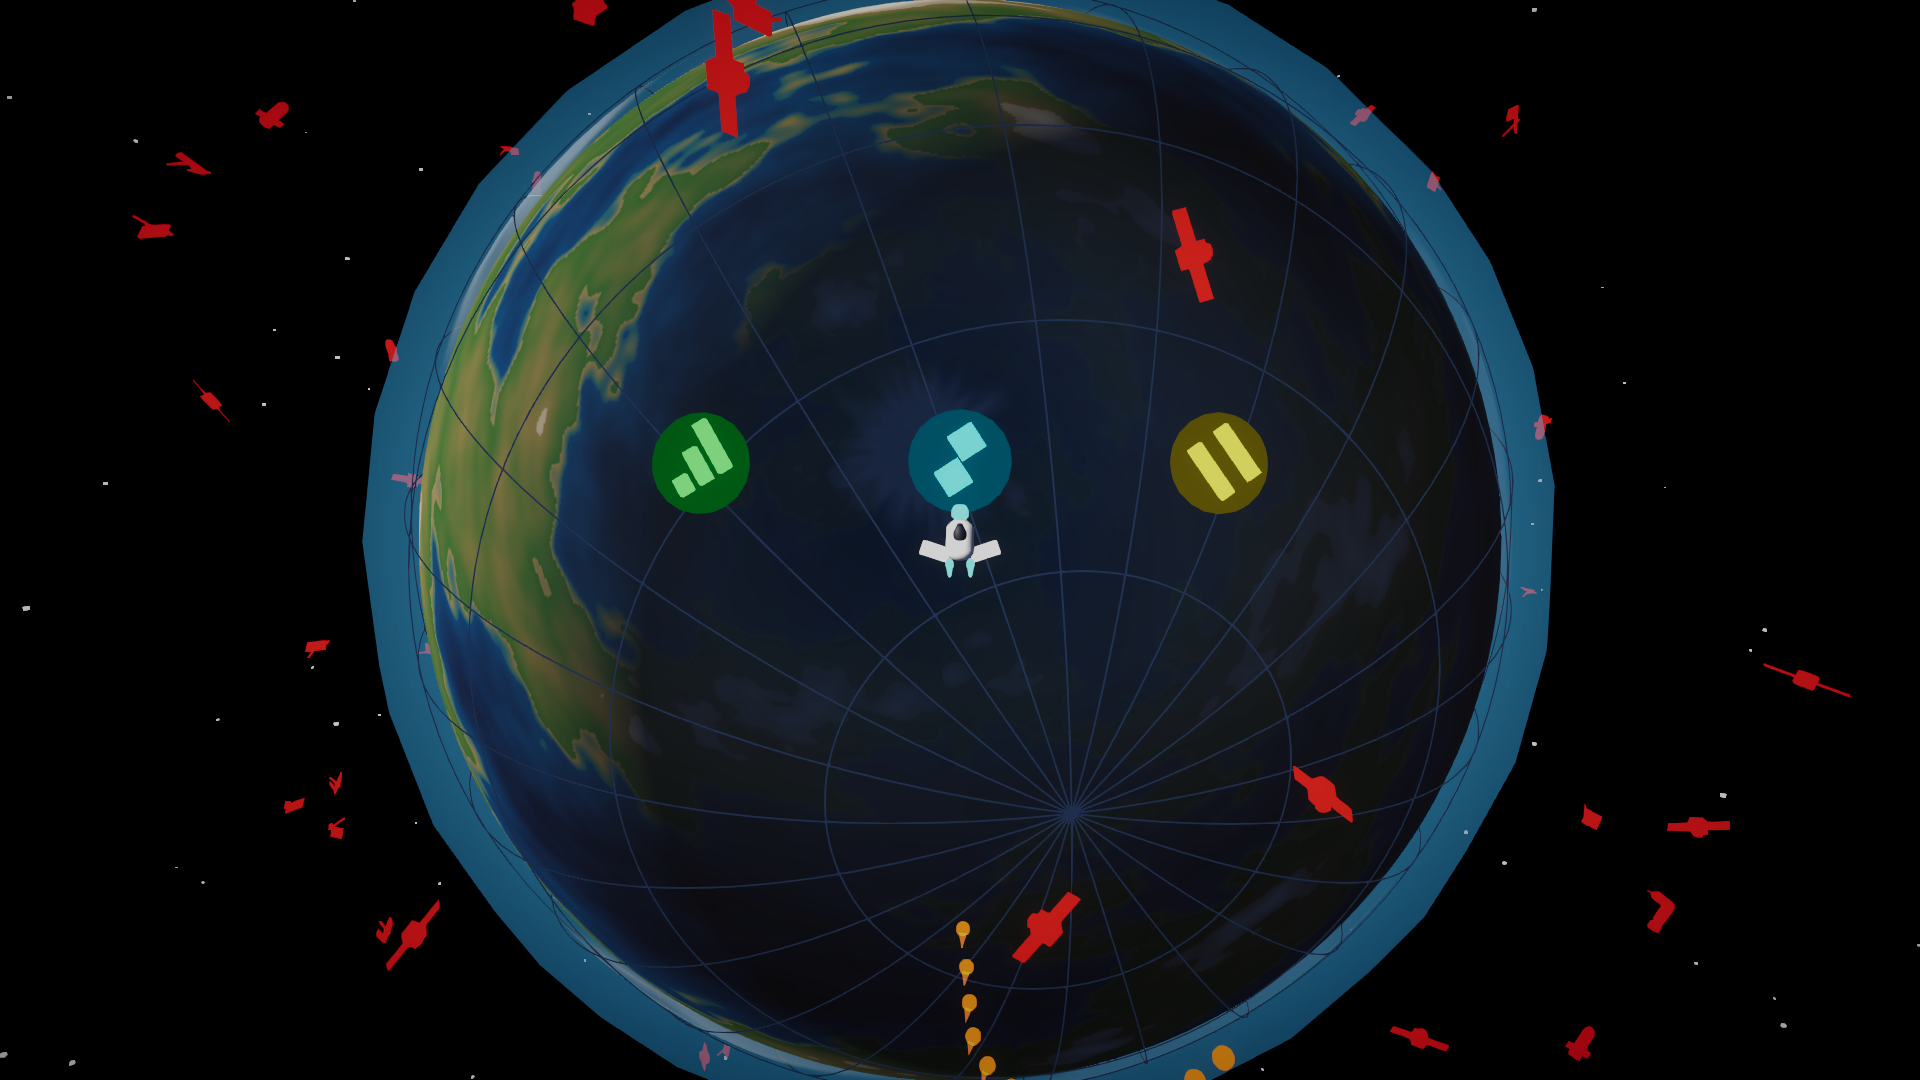
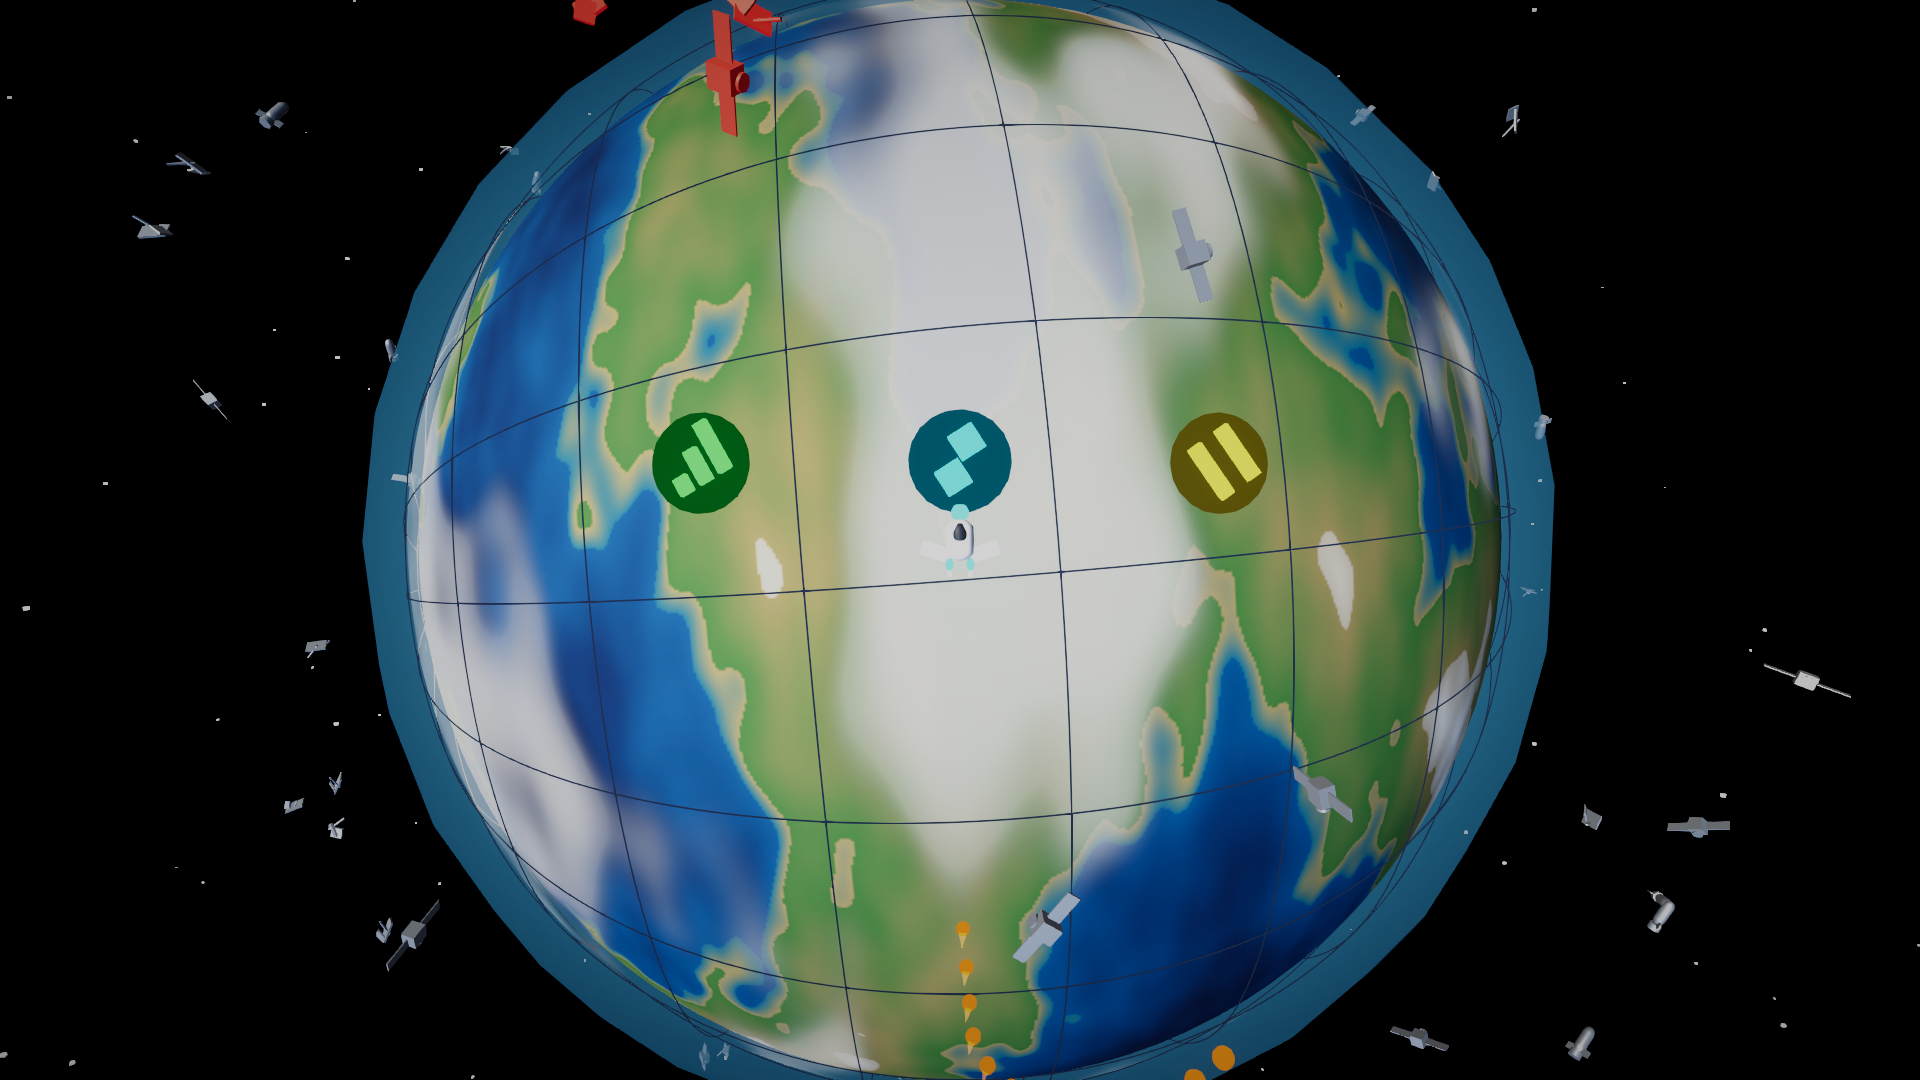
fix: planet sphere wound outward — the near surface renders instead of the far hemisphere's inner wall
Sphere() triangles were counter-clockwise from outside, so back-face culling removed the
near surface on every platform and the game showed a mirrored, back-lit map. Also: pole
UVs at sliver centres, 2048x1024 map with smaller ice caps, planet tilted 90 degrees so
the start is on the equator, transparent Lit anchor so the WebGL build keeps the cloud
shell's transparent variant (it rendered as an opaque white ball), texture debug switches,
refreshed screenshots.

diff --git a/My project/Assets/Scripts/Orbit/OrbitArt.cs b/My project/Assets/Scripts/Orbit/OrbitArt.cs
@@ -11,6 +11,7 @@ public partial class OrbitSnake
     Material planetMat, hullMat, segMat, segMatAlt, junkNeutral, junkCatch, junkStrike, wreckMat, fallMat, glowMat, exhaustMat, sparkMat, gridMat, starMat;
     // Layer 3 in TagManager is named Planet: the planet and clouds sit on it so the camera headlight can leave them alone.
     const int PlanetLayer=3;
+    static readonly Quaternion PlanetTilt=Quaternion.Euler(90,0,0);
     Vector3 camPos, camUp; UniversalAdditionalCameraData camData;
     ParticleSystem sparks; Transform cloudLayer;
     public Vector3 sunDir=new Vector3(-.55f,.6f,-.58f).normalized;
@@ -31,20 +32,25 @@ public partial class OrbitSnake
         fallMat=Mat(new Color(1.5f,.62f,.12f),true); glowMat=Mat(new Color(.45f,1.15f,1.5f),true); exhaustMat=Additive(new Color(.35f,.9f,1.3f),.9f); sparkMat=Additive(Color.white,1);
         gridMat=Mat(new Color(.26f,.32f,.44f),true); starMat=Additive(new Color(.75f,.8f,.95f),1);
         // Planet: a smooth lat-long sphere so the limb is round from 275 u up, lit by the sun so it has a terminator.
-        var planet=new GameObject("Planet"); planet.transform.SetParent(world,false); planet.layer=PlanetLayer;
+        // The map is tilted 90 degrees so the ship's start (world up) sits over the equator, not on a pole and its ice cap.
+        var planet=new GameObject("Planet"); planet.transform.SetParent(world,false); planet.layer=PlanetLayer; planet.transform.rotation=PlanetTilt;
         planet.AddComponent<MeshFilter>().sharedMesh=Sphere(PlanetRadius,128,64); planet.AddComponent<MeshRenderer>().sharedMaterial=planetMat;
         // Cloud layer: the same map's cloud channel on a slightly larger sphere, drifting slowly so the surface reads as alive.
         // Matte clouds: with the default metallic/smoothness the cloud shell's specular bloomed into a white starburst on
         // the ocean (the sun's glint on a sphere 2.5 u above the water), which together with the pole knot read as inside-out.
-        var cloudMat=Mat(Color.white,false); cloudMat.SetFloat("_Metallic",0); cloudMat.SetFloat("_Smoothness",0); cloudMat.SetTexture("_BaseMap",CloudTexture()); cloudMat.SetFloat("_Surface",1); cloudMat.SetFloat("_Blend",0); cloudMat.SetOverrideTag("RenderType","Transparent"); cloudMat.renderQueue=3000; cloudMat.SetInt("_SrcBlend",(int)BlendMode.SrcAlpha); cloudMat.SetInt("_DstBlend",(int)BlendMode.OneMinusSrcAlpha); cloudMat.SetInt("_ZWrite",0); cloudMat.EnableKeyword("_SURFACE_TYPE_TRANSPARENT"); cloudMat.EnableKeyword("_ALPHAPREMULTIPLY_ON");
-        var clouds=new GameObject("Clouds"); clouds.transform.SetParent(world,false); clouds.layer=PlanetLayer; clouds.AddComponent<MeshFilter>().sharedMesh=Sphere(PlanetRadius+2.5f,96,48); clouds.AddComponent<MeshRenderer>().sharedMaterial=cloudMat; cloudLayer=clouds.transform;
+        // Built from the transparent Lit anchor when it exists (RiftBuild.EnsureShaderAssets), so a player build keeps the
+        // transparent variant; the keyword setup below is repeated for the Editor, where no anchor is needed.
+        var cloudAnchor=Resources.Load<Material>("RiftShaders/UniversalRenderPipeline_Lit_Transparent");
+        var cloudMat=cloudAnchor?new Material(cloudAnchor):Mat(Color.white,false); if(cloudAnchor)owned.Add(cloudMat);
+        cloudMat.SetColor("_BaseColor",Color.white); cloudMat.color=Color.white; cloudMat.SetFloat("_Metallic",0); cloudMat.SetFloat("_Smoothness",0); cloudMat.SetTexture("_BaseMap",CloudTexture()); cloudMat.SetFloat("_Surface",1); cloudMat.SetFloat("_Blend",0); cloudMat.SetOverrideTag("RenderType","Transparent"); cloudMat.renderQueue=3000; cloudMat.SetInt("_SrcBlend",(int)BlendMode.SrcAlpha); cloudMat.SetInt("_DstBlend",(int)BlendMode.OneMinusSrcAlpha); cloudMat.SetInt("_ZWrite",0); cloudMat.EnableKeyword("_SURFACE_TYPE_TRANSPARENT"); cloudMat.EnableKeyword("_ALPHAPREMULTIPLY_ON");
+        var clouds=new GameObject("Clouds"); clouds.transform.SetParent(world,false); clouds.layer=PlanetLayer; clouds.transform.rotation=PlanetTilt; clouds.AddComponent<MeshFilter>().sharedMesh=Sphere(PlanetRadius+2.5f,96,48); clouds.AddComponent<MeshRenderer>().sharedMaterial=cloudMat; cloudLayer=clouds.transform;
         // Grid every 15 degrees, faint: from straight above it is what shows speed over an ocean. Meridians are arcs that
         // stop at ±75° like a globe's, so they never bunch into a knot at the poles (the knot read as a hole in the sphere).
         // Grid lines cast no shadows: the sun has none (below), and nothing else should shade the surface either.
         for(int i=0;i<35;i++){ var ring=new GameObject("Grid").AddComponent<LineRenderer>(); ring.transform.SetParent(world,false); ring.useWorldSpace=true; ring.positionCount=128; ring.widthMultiplier=.3f; ring.sharedMaterial=gridMat; ring.shadowCastingMode=UnityEngine.Rendering.ShadowCastingMode.Off; ring.receiveShadows=false;
             bool lon=i<24; ring.loop=!lon; float R=PlanetRadius+3.2f;
-            if(lon){ var q=Quaternion.AngleAxis(i*15,Vector3.up); for(int k=0;k<128;k++){ float a=Mathf.Lerp(-75,75,k/127f)*Mathf.Deg2Rad; ring.SetPosition(k,q*new Vector3(Mathf.Cos(a)*R,Mathf.Sin(a)*R,0)); } }
-            else { float lat=(i-24)*15-75; float r=Mathf.Cos(lat*Mathf.Deg2Rad)*R, y=Mathf.Sin(lat*Mathf.Deg2Rad)*R; for(int k=0;k<128;k++){ float a=k*Mathf.PI*2/128; ring.SetPosition(k,new Vector3(Mathf.Cos(a)*r,y,Mathf.Sin(a)*r)); } } }
+            if(lon){ var q=PlanetTilt*Quaternion.AngleAxis(i*15,Vector3.up); for(int k=0;k<128;k++){ float a=Mathf.Lerp(-75,75,k/127f)*Mathf.Deg2Rad; ring.SetPosition(k,q*new Vector3(Mathf.Cos(a)*R,Mathf.Sin(a)*R,0)); } }
+            else { float lat=(i-24)*15-75; float r=Mathf.Cos(lat*Mathf.Deg2Rad)*R, y=Mathf.Sin(lat*Mathf.Deg2Rad)*R; for(int k=0;k<128;k++){ float a=k*Mathf.PI*2/128; ring.SetPosition(k,PlanetTilt*new Vector3(Mathf.Cos(a)*r,y,Mathf.Sin(a)*r)); } } }
         // Atmosphere limb: RIFT's shader, re-centred on the origin. Cull Front, so it is seen from inside as a halo on the disc.
         var atmoShader=Shader.Find("Rift/Atmosphere");
         if(atmoShader){ var atmo=new Material(atmoShader); owned.Add(atmo); atmo.SetVector("_PlanetCenter",Vector3.zero); atmo.SetFloat("_Radius",PlanetRadius); Shape("Atmosphere",world,PrimitiveType.Sphere,Vector3.zero,Vector3.one*(PlanetRadius+12)*2,atmo); }
@@ -76,31 +82,36 @@ public partial class OrbitSnake
     // material is lit). 1024x512, generated once.
     Texture2D PlanetTexture()
     {
-        // No mip chain: at the poles the lat-long sphere's sliver triangles sweep u from 0 to 1 in a few pixels, the GPU
-        // picks the 1x1 mip (the map's average, dark blue) and the pole renders as a dark starburst. The camera sits 85 u
-        // over a 160 u sphere, so the map is magnified, never minified, and mips buy nothing.
-        var t=new Texture2D(1024,512,TextureFormat.RGB24,false); t.wrapMode=TextureWrapMode.Repeat; var px=new Color[1024*512];
-        for(int y=0;y<512;y++)for(int x=0;x<1024;x++)
+        // 2048x1024: from 115 u above the surface a texel is half a unit, about 3 px on screen. Noise is sampled in the old
+        // 1024x512 texel space so the continents keep their size. Mips stay on for the limb; the poles are handled by the mesh UVs.
+        int W=debug.Contains("tex1024")?1024:2048,H=W/2; var t=new Texture2D(W,H,debug.Contains("rgba")?TextureFormat.RGBA32:TextureFormat.RGB24,!debug.Contains("nomip")); t.wrapMode=TextureWrapMode.Repeat; t.anisoLevel=debug.Contains("noaniso")?1:8; var px=new Color[W*H];
+        for(int y=0;y<H;y++)for(int x=0;x<W;x++)
         {
-            float lat=Mathf.Abs(y/512f-.5f)*2; float n=Mathf.PerlinNoise(x*.006f+7,y*.012f+3)+.4f*Mathf.PerlinNoise(x*.02f,y*.04f)+.15f*Mathf.PerlinNoise(x*.06f,y*.12f);
+            float sx=x*1024f/W, sy=y*512f/H;
+            float lat=Mathf.Abs((float)y/H-.5f)*2; float n=Mathf.PerlinNoise(sx*.006f+7,sy*.012f+3)+.4f*Mathf.PerlinNoise(sx*.02f,sy*.04f)+.15f*Mathf.PerlinNoise(sx*.06f,sy*.12f);
             Color c=n<.72f?Color.Lerp(new Color(.04f,.12f,.28f),new Color(.08f,.3f,.5f),Mathf.InverseLerp(.3f,.72f,n)):n<.78f?Color.Lerp(new Color(.12f,.38f,.5f),new Color(.55f,.5f,.34f),Mathf.InverseLerp(.72f,.78f,n)):n<1.05f?Color.Lerp(new Color(.24f,.42f,.22f),new Color(.5f,.46f,.3f),Mathf.InverseLerp(.78f,1.05f,n)):Color.Lerp(new Color(.62f,.6f,.55f),new Color(.9f,.92f,.95f),Mathf.InverseLerp(1.05f,1.3f,n));
-            float ice=Mathf.SmoothStep(0,1,Mathf.InverseLerp(.82f,.95f,lat+.08f*Mathf.PerlinNoise(x*.03f,y*.03f))); c=Color.Lerp(c,new Color(.92f,.95f,1f),ice);
-            px[y*1024+x]=c;
+            // Ice caps above ~81 degrees: small, so the map is land and sea, not a white lid.
+            float ice=Mathf.SmoothStep(0,1,Mathf.InverseLerp(.9f,.97f,lat+.06f*Mathf.PerlinNoise(sx*.03f,sy*.03f))); c=Color.Lerp(c,new Color(.92f,.95f,1f),ice);
+            px[y*W+x]=c;
         }
-        t.SetPixels(px); t.Apply(false); owned.Add(t); return t;
+        t.SetPixels(px); t.Apply(!debug.Contains("nomip")); Debug.Log("[ART] planet texture "+W+"x"+H+" "+t.format+" mips="+t.mipmapCount); owned.Add(t); return t;
     }
     Texture2D CloudTexture()
     {
-        var t=new Texture2D(512,256,TextureFormat.RGBA32,false); t.wrapMode=TextureWrapMode.Repeat; var px=new Color[512*256];
-        for(int y=0;y<256;y++)for(int x=0;x<512;x++){ float c=Mathf.SmoothStep(0,1,Mathf.InverseLerp(.55f,.85f,Mathf.PerlinNoise(x*.014f+51,y*.028f+9)+.3f*Mathf.PerlinNoise(x*.05f,y*.1f))); px[y*512+x]=new Color(1,1,1,c*.8f); }
-        t.SetPixels(px); t.Apply(false); owned.Add(t); return t;
+        int W=debug.Contains("tex1024")?512:1024,H=W/2; var t=new Texture2D(W,H,TextureFormat.RGBA32,!debug.Contains("nomip")); t.wrapMode=TextureWrapMode.Repeat; t.anisoLevel=debug.Contains("noaniso")?1:8; var px=new Color[W*H];
+        for(int y=0;y<H;y++)for(int x=0;x<W;x++){ float sx=x*512f/W, sy=y*256f/H; float c=Mathf.SmoothStep(0,1,Mathf.InverseLerp(.55f,.85f,Mathf.PerlinNoise(sx*.014f+51,sy*.028f+9)+.3f*Mathf.PerlinNoise(sx*.05f,sy*.1f))); px[y*W+x]=new Color(1,1,1,c*.8f); }
+        t.SetPixels(px); t.Apply(true); owned.Add(t); return t;
     }
 
+    // Lat-long sphere with its front faces OUTWARD. The first version wound them inward (a, a+lon+1, a+1 is
+    // counter-clockwise from outside in Unity's left-handed convention), so the near surface was culled and every
+    // platform showed the far hemisphere's inner wall: a mirrored map lit from behind, which the user read as
+    // "the texture is inside-out". Pole vertices take the centre u of their sliver so the mip selection there stays sane.
     Mesh Sphere(float r,int lon,int lat)
     {
         var v=new Vector3[(lon+1)*(lat+1)]; var n=new Vector3[v.Length]; var uv=new Vector2[v.Length]; var t=new int[lon*lat*6]; int i=0;
-        for(int y=0;y<=lat;y++)for(int x=0;x<=lon;x++){ float a=x*Mathf.PI*2/lon,b=y*Mathf.PI/lat; n[i]=new Vector3(Mathf.Sin(b)*Mathf.Cos(a),Mathf.Cos(b),Mathf.Sin(b)*Mathf.Sin(a)); v[i]=n[i]*r; uv[i]=new Vector2((float)x/lon,1-(float)y/lat); i++; }
-        i=0; for(int y=0;y<lat;y++)for(int x=0;x<lon;x++){ int a=y*(lon+1)+x; t[i++]=a;t[i++]=a+lon+1;t[i++]=a+1; t[i++]=a+1;t[i++]=a+lon+1;t[i++]=a+lon+2; }
+        for(int y=0;y<=lat;y++)for(int x=0;x<=lon;x++){ float a=x*Mathf.PI*2/lon,b=y*Mathf.PI/lat; n[i]=new Vector3(Mathf.Sin(b)*Mathf.Cos(a),Mathf.Cos(b),Mathf.Sin(b)*Mathf.Sin(a)); v[i]=n[i]*r; bool pole=y==0||y==lat; uv[i]=new Vector2((pole?x+.5f:x)/lon,1-(float)y/lat); i++; }
+        i=0; for(int y=0;y<lat;y++)for(int x=0;x<lon;x++){ int a=y*(lon+1)+x; t[i++]=a;t[i++]=a+1;t[i++]=a+lon+1; t[i++]=a+1;t[i++]=a+lon+2;t[i++]=a+lon+1; }
         var m=new Mesh{name="Sphere",indexFormat=IndexFormat.UInt32,vertices=v,normals=n,uv=uv,triangles=t}; m.RecalculateBounds(); owned.Add(m); return m;
     }
 
@@ -155,7 +166,7 @@ public partial class OrbitSnake
     public void TintJunk()
     {
         foreach(var j in junk){ if(j.tint==null||j.shot)continue; bool near=j.shell==level&&(j.Position-ship.Position).magnitude<150; Material m=j.wreck?wreckMat:!near?junkNeutral:(Vector3.Angle(ship.tangent,j.Direction)<CatchAngleNow?junkCatch:junkStrike); if(j.body&&j.body.sharedMaterial!=m)foreach(var r in j.tint)if(r)r.sharedMaterial=m; }
-        if(cloudLayer)cloudLayer.Rotate(0,Time.deltaTime*.4f,0,Space.World);
+        if(cloudLayer)cloudLayer.Rotate(PlanetTilt*Vector3.up,Time.deltaTime*.4f,Space.World);
     }
 
     void BuildCamera()

diff --git a/My project/Assets/Editor/RiftBuild.cs b/My project/Assets/Editor/RiftBuild.cs
@@ -28,6 +28,19 @@ public static class RiftBuild
             AssetDatabase.CreateAsset(new Material(shader), path);
             Debug.Log("[BUILD] created shader anchor " + path);
         }
+        // The cloud shell is a transparent Lit material made at runtime. Variant stripping only keeps what some material
+        // asset uses, and with just an opaque Lit anchor the WebGL build dropped _SURFACE_TYPE_TRANSPARENT: the clouds
+        // came out as an opaque white ball around the planet. This anchor carries the transparent keywords.
+        const string transparentPath = "Assets/Resources/RiftShaders/UniversalRenderPipeline_Lit_Transparent.mat";
+        if (!AssetDatabase.LoadAssetAtPath<Material>(transparentPath))
+        {
+            var m = new Material(Shader.Find("Universal Render Pipeline/Lit"));
+            m.SetFloat("_Surface", 1); m.SetFloat("_Blend", 0); m.SetFloat("_ZWrite", 0); m.SetFloat("_SrcBlend", 5); m.SetFloat("_DstBlend", 10);
+            m.SetOverrideTag("RenderType", "Transparent"); m.renderQueue = 3000;
+            m.EnableKeyword("_SURFACE_TYPE_TRANSPARENT"); m.EnableKeyword("_ALPHAPREMULTIPLY_ON");
+            AssetDatabase.CreateAsset(m, transparentPath);
+            Debug.Log("[BUILD] created shader anchor " + transparentPath);
+        }
         AssetDatabase.SaveAssets();
     }
 

diff --git a/CHANGELOG.md b/CHANGELOG.md
@@ -10,7 +10,8 @@
 
 - **ORBIT SNAKE 发布到 itch.io**：`RiftBuild.OrbitWebGL` 出一个不压缩的 WebGL 播放器到 `Builds/ORBIT-web/`（itch.io 不给 `.br/.gz` 加 `Content-Encoding` 头，所以 `webGLCompressionFormat` 置为 Disabled；画布 1280×720 对齐 HUD 的虚拟分辨率；`productName` 只在构建期间借用为页面标题）。页面 https://stevenli-phoenix-work.itch.io/orbit-snake：HTML 类型、嵌入 1280×720 带全屏按钮、封面与三张截图、AI 生成内容按 itch 要求披露（代码/图形/声音）、附带 ad-hoc 签名的 macOS 包。WebGL 构建产生的 `My project/Data/`（Burst 中间产物）加入 `.gitignore`。WebGL 平台上分数与最高分下移 110 px：itch 页面在嵌入区右上角固定悬浮三个按钮，正好盖住分数；桌面版布局不变。
 - **ORBIT SNAKE 发布流程改为 unity-flappybird 那一套**（那边已验证）：`scripts/build-webgl.sh`（24 项校验 → `RiftBuild.OrbitWebGL` → `scripts/check-webgl.mjs`），`RiftBuild.OrbitWebGL` 改为显式 WebGL 2、Gzip + 解压回退、项目自带的 `Assets/WebGLTemplates/Itch/index.html`（铺满 iframe、`matchWebGLToCanvasSize`、加载环与失败提示、`ORBIT_WEBGL_READY` 控制台标记），构建前跑编辑模式检查（新输入系统、URP 覆盖所有质量档、解压回退、模板与场景存在、shader 锚点），日志以 `BUILD_AND_TESTS_PASSED` 收尾；`scripts/check-webgl.mjs` 校验 itch 限制（文件数、单文件、总大小、路径长度、无符号链接、模板已展开、相对路径、画布跟随 iframe），`node --test scripts/*.test.mjs` 五项；`.github/workflows/publish.yml` 在 main 推送时用 GameCI 云构建并以 `BUTLER_API_KEY` 推送 `html` 渠道，缺 secret 时在预检明确报错。
-- **ORBIT SNAKE "星球内外反了"**（用户在 itch 上的观感）：两个叠在一起的假象。一是**黑色星芒**——经纬球网格在极点由 128 个退化的细长三角形组成，UV 的 u 在几个像素内从 0 扫到 1，GPU 按导数选到 1×1 那级 mipmap（整张地图的平均色，深蓝），极点就被画成放射状的暗斑，而开局位置正好在极点正上方；星球和云的贴图改为不生成 mip 链（相机离表面 85 u，贴图只被放大，mip 本就无用）。二是**白色星芒**——云层球用了默认的 metallic .25 / smoothness .4，太阳在它上面的镜面高光被 bloom 放大；云层材质改为完全哑光。顺带：太阳不再产生阴影、网格线不投不接阴影；子午线改为 ±75° 之间的弧（像地球仪），不再在极点堆成一团（网格 23 条改 35 条）。两个平台都受影响，只是在网页上更显眼；先用 `?stage&nopost` / `&nocloudspec` / `&nospec` / `&noclouds` 逐个排除，剩下的那个固定在世界坐标里的暗斑才指向网格极点。
+- **ORBIT SNAKE 星球真的是内外反的**（用户说得对）：`Sphere()` 的三角形绕向是逆时针（从球外看），在 Unity 的左手系里就是正面朝内——背面剔除把近表面剔掉了，三个平台上看到的一直都是**远端半球的内壁**：贴图是镜像的、光从背后来、经纬网格（画在近表面）和地图之间有视差。修法：翻转绕向；极点顶点的 u 取各自细长三角形的中点，mip 选择在极点不再失控（mip 链保留，地平线不闪）；贴图升到 2048×1024 / 云 1024×512（现在看到的是 115 u 外的近表面，被放大了 4 倍），噪声仍按旧的纹素坐标采样、大陆尺寸不变；冰盖缩到 81° 以上；星球倾斜 90°，开局落在赤道而不是极点。下面两条"星芒"是在这个前提下的次级现象，修法保留。绕向修好后网页版又露出第二个 WebGL 专属问题：云壳的透明 Lit 变体被裁剪器裁掉（包里只有一个不透明的 Lit 材质锚点），云层按不透明白色渲染成一个罩住星球的白球——`RiftBuild.EnsureShaderAssets` 现在多锚一个带 `_SURFACE_TYPE_TRANSPARENT` / `_ALPHAPREMULTIPLY_ON` 的透明 Lit 材质，运行时云层材质从它实例化。`?noclouds` 开关一开星球立刻正常，是它定的位。
+- **ORBIT SNAKE 两个星芒**：两个叠在一起的假象。一是**黑色星芒**——经纬球网格在极点由 128 个退化的细长三角形组成，UV 的 u 在几个像素内从 0 扫到 1，GPU 按导数选到 1×1 那级 mipmap（整张地图的平均色，深蓝），极点就被画成放射状的暗斑，而开局位置正好在极点正上方；星球和云的贴图改为不生成 mip 链（相机离表面 85 u，贴图只被放大，mip 本就无用）。二是**白色星芒**——云层球用了默认的 metallic .25 / smoothness .4，太阳在它上面的镜面高光被 bloom 放大；云层材质改为完全哑光。顺带：太阳不再产生阴影、网格线不投不接阴影；子午线改为 ±75° 之间的弧（像地球仪），不再在极点堆成一团（网格 23 条改 35 条）。两个平台都受影响，只是在网页上更显眼；先用 `?stage&nopost` / `&nocloudspec` / `&nospec` / `&noclouds` 逐个排除，剩下的那个固定在世界坐标里的暗斑才指向网格极点。
 - **ORBIT SNAKE URL 调试开关**（仅 WebGL 读 `Application.absoluteURL`）：`?stage`（复现 `-orbit-screenshot` 的摆尾+转向状态但不截图、不退出）、`nopost`、`nobloom`、`notone`、`noclouds`、`nospec`、`nocloudspec`、`nohead`——同一个包在浏览器里二分渲染差异，不用重新构建。
 - **ORBIT SNAKE 平台对比截图**：内置播放器新增 `-orbit-startshot=<png>`，在第 3 秒原样截取开始画面（不像 `-orbit-screenshot` 那样摆好尾巴再拍），与浏览器按键前的画面一一对应，可以和 WebGL 帧做像素对比。用户报告"地图贴图在网页版是反的"，实测 mac 开始帧与无头 Chrome 帧陆地掩膜 IoU 0.78、与 itch 页面帧 0.64，镜像/上下翻/180° 都 ≤0.03——三处是同一张图、同一朝向，暂未复现。
 - **ORBIT SNAKE 渲染像素门禁**：`scripts/check-webgl-render.mjs` 用无头 Chrome（DevTools 协议，零依赖）真的把构建好的包画出来——等模板的 `ORBIT_WEBGL_READY`、截 1280×720 一帧、解 PNG 检查开始画面有 ≥1.5% 受光的陆地像素且近黑像素 ≤75%。`scripts/build-webgl.sh` 第四步和 `publish.yml` 都跑它，截图作为构件保留。起因：发到 itch 的第一个 WebGL 包（1.0.0）主光源整个失效，星球是一片纯深蓝、机身不可见，用户飞了一整圈才发现，而之前的门禁（编辑器截图、包校验）都没拦住；我最初把它误判成"飞到了夜半球"，是错的。
